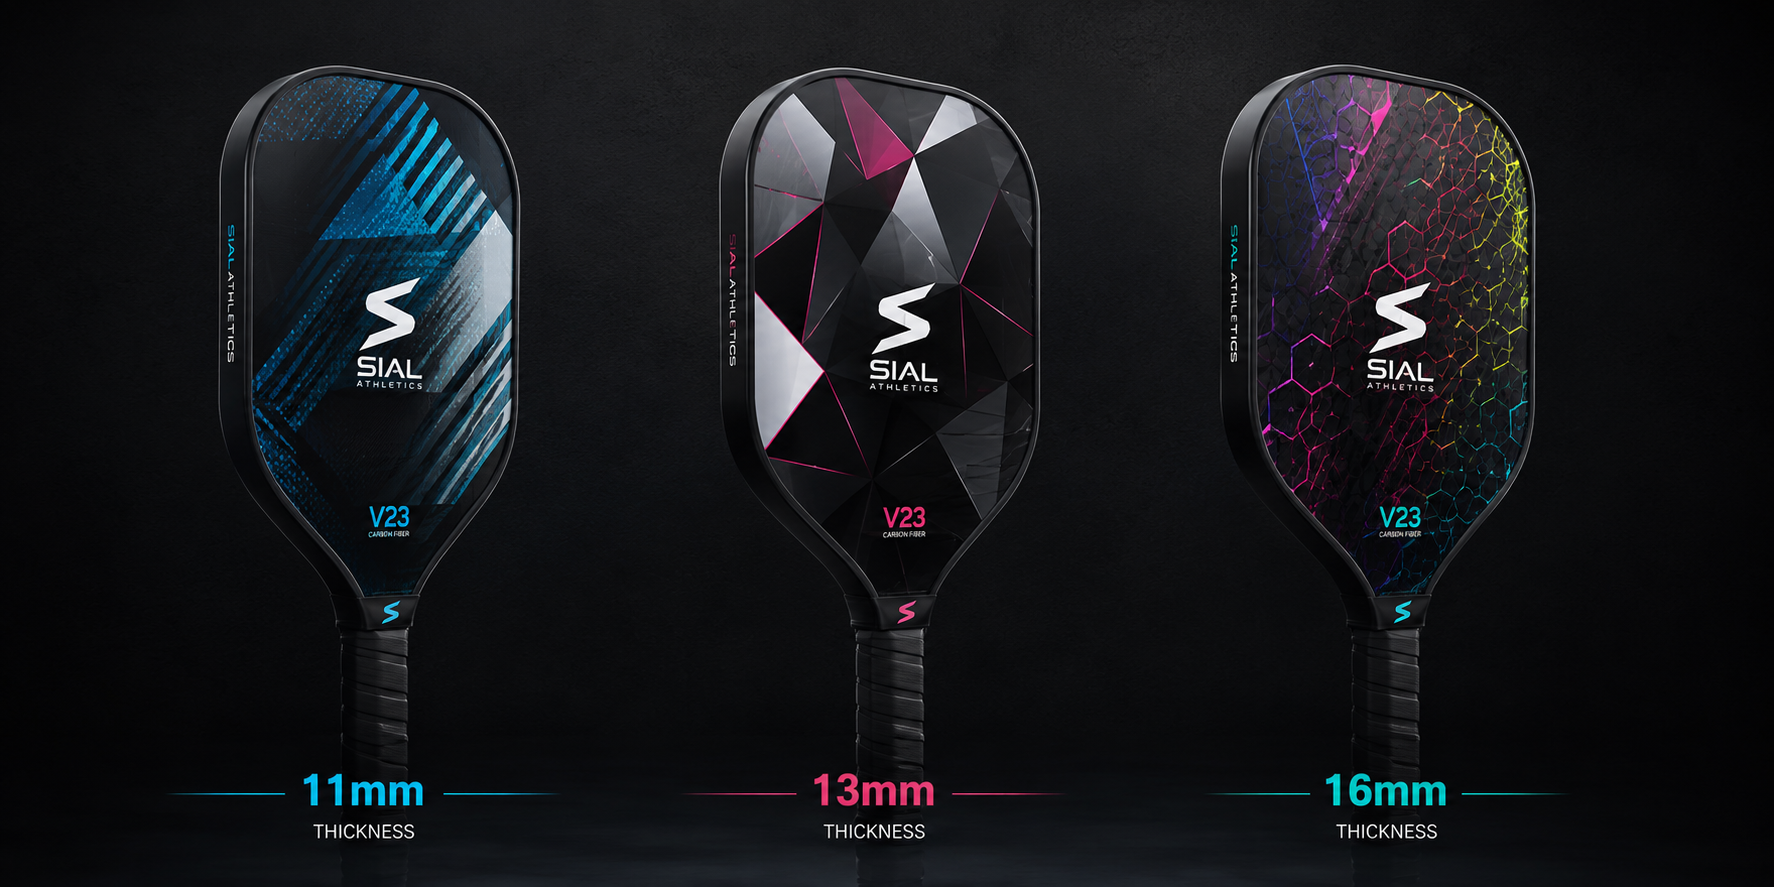
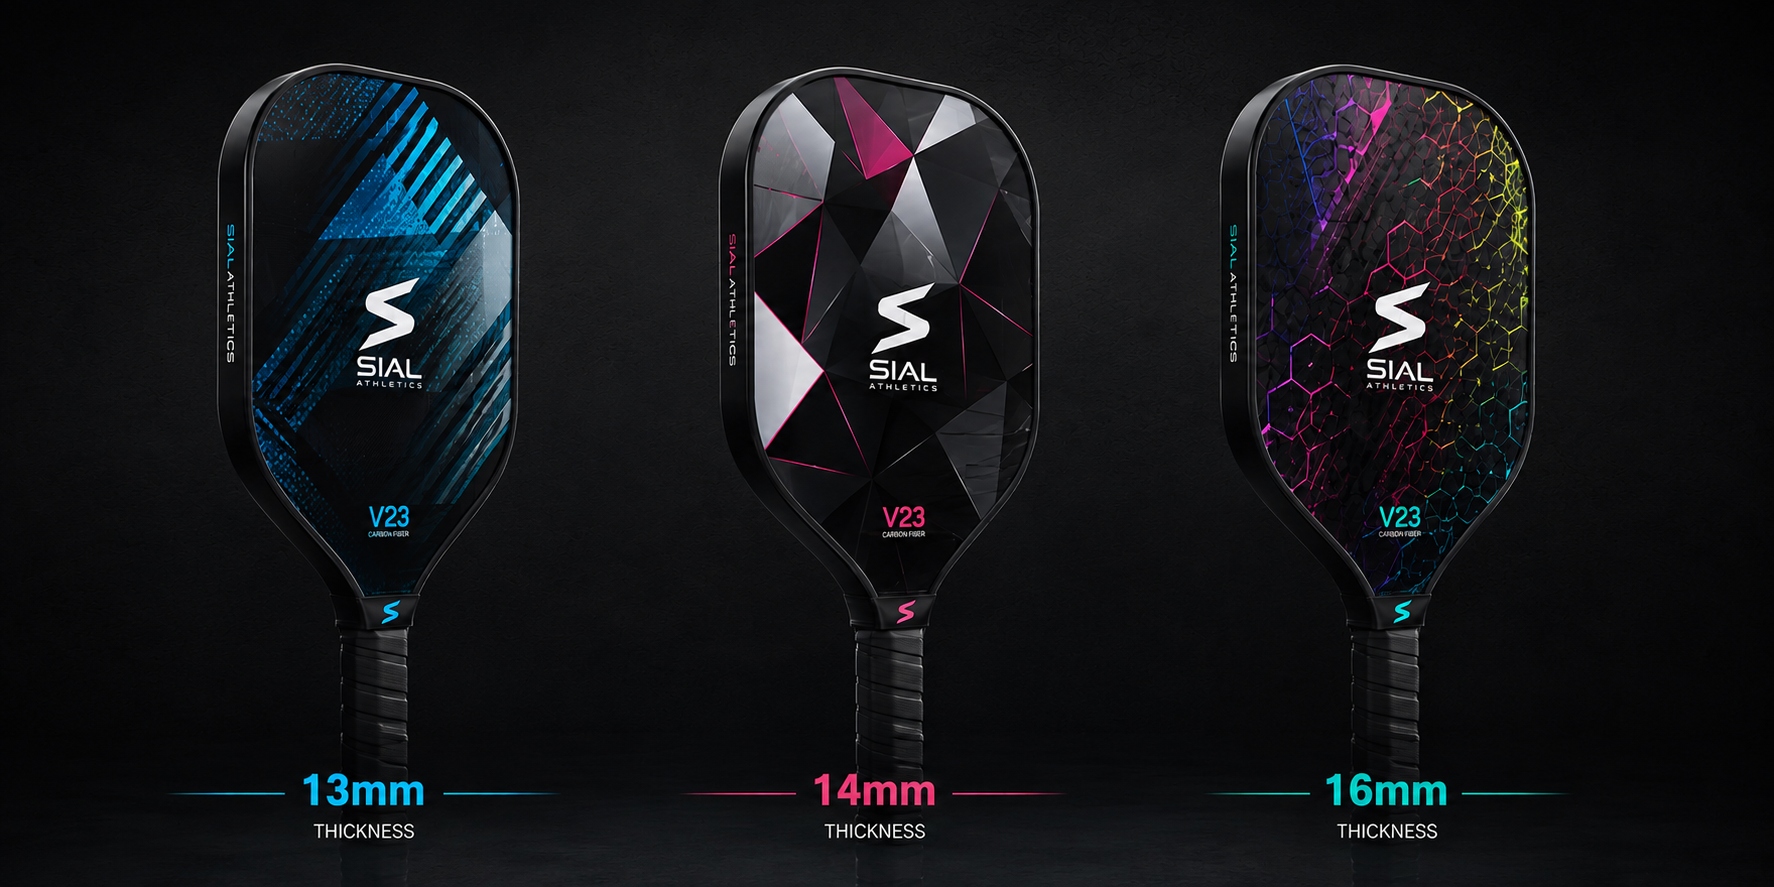
Align FAQ and blog with the trimmed catalogue options
Updated thickness artwork now reads 13/14/16mm, matching the catalogue,
the FAQ and the post title, so the earlier 11mm mismatch is resolved.

Weight and balance no longer read as things a buyer picks. The FAQ and
both padel posts now describe them as outcomes of the shape and core,
still landing in the usual 350-380g and 260-275mm ranges. The
descriptive mentions in the beginner guide and the padel-vs-pickleball
comparison stay, since those describe the equipment generally rather
than what we offer.

Texture wording follows the corrected position too: 3D relief is molded
and permanent, sand is a particle finish that smooths with play, and the
option lists drop 3D decals to match the catalogue.

Pickleball core is stated in the section intro instead of rendering as a
one-option chip group.

diff --git a/sialathletics/data/blog.ts b/sialathletics/data/blog.ts
@@ -231,19 +231,18 @@ export const posts: BlogPost[] = [
       { type: 'h2', text: 'Surface texture sets spin' },
       {
         type: 'p',
-        text: 'Texture is molded directly into the frame rather than sprayed on as a coating, so it does not wear off with use. Options include 3D grain, 3D hexagon mold, sand grit, and 3D decals.',
+        text: 'There are two ways to get grip: 3D relief molded into the frame, which cannot wear away, and a sand particle finish, which bites harder when new but smooths with play. Options are smooth, sand grit, 3D grain, 3D hexagon, or a hybrid that combines sand over a molded relief so performance fades gradually instead of falling away.',
       },
 
-      { type: 'h2', text: 'Weight, balance and finishing' },
+      { type: 'h2', text: 'The full spec sheet' },
       {
         type: 'table',
         rows: [
-          ['Weight', '350-380g'],
-          ['Balance', '260-275mm (low, mid, or high)'],
           ['Frame shape', 'Round, teardrop, diamond, hybrid, or a custom mold'],
-          ['Face material', '3K / 12K / 18K / 24K carbon, fiberglass-carbon hybrid, Kevlar-carbon blend'],
+          ['Face material', '3K / 12K / 18K / 24K carbon, silver carbon, fiberglass-carbon hybrid, Kevlar-carbon blend'],
           ['Core', 'Black high-density EVA, soft EVA 13-15°, memory high-rebound EVA'],
-          ['Texture', '3D grain, 3D hexagon, sand grit, 3D decals'],
+          ['Texture', 'Smooth, sand grit, 3D grain, 3D hexagon, or hybrid sand and 3D'],
+          ['Weight and balance', 'Not selected separately — they result from the shape and core, typically 350-380g and 260-275mm'],
         ],
       },
       {
@@ -468,10 +467,14 @@ export const posts: BlogPost[] = [
         text: 'For a first product line, teardrop is usually the right starting point. It is the shape most players can use, which makes it the safest single SKU if you are only launching one. Round is the natural second addition if you sell into clubs and academies, where beginners and improvers dominate. Diamond is the one to add last — it sells to a narrower, more advanced audience, and it is the shape most likely to sit on a shelf if your customer base is not there yet.',
       },
 
-      { type: 'h2', text: 'Weight and balance' },
+      { type: 'h2', text: 'Weight and balance follow from the build' },
       {
         type: 'p',
-        text: 'Weight and balance are specified separately from shape, and they can shift the character within a shape. Our range is 350-380g with a balance point from 260-275mm. A teardrop specified at 350g with a low balance will play more like a control racket than a heavy round one will. If you are trying to hit a particular feel, these two numbers are the fine adjustment.',
+        text: 'Weight and balance are not specified off a list. They are the result of the shape, the carbon grade and the core you choose, and they land in the usual 350-380g range with a balance point around 260-275mm. A round racket in a soft core naturally sits lower and lighter than a diamond in high-density EVA — the shape does that, not a number you tick.',
+      },
+      {
+        type: 'p',
+        text: 'If you have a target feel rather than a target figure, describe the player and we will tell you which combination gets closest. Chasing an exact gram count usually means compromising something that matters more.',
       },
 
       { type: 'h2', text: 'When you need a custom mold' },
@@ -559,7 +562,7 @@ export const posts: BlogPost[] = [
       'Core thickness is the biggest single influence on how a paddle feels. Thinner is faster, thicker is more controlled.',
     hero: {
       src: '/images/blog/pickleball-paddle-thickness.png',
-      alt: 'Three SIAL Athletics pickleball paddles shown side by side labelled 11mm, 13mm and 16mm thickness',
+      alt: 'Three SIAL Athletics pickleball paddles shown side by side labelled 13mm, 14mm and 16mm thickness',
     },
     blocks: [
       {

diff --git a/sialathletics/app/catalogue/page.tsx b/sialathletics/app/catalogue/page.tsx
@@ -118,10 +118,9 @@ const pickleballOptions: { title: string; items: string[] }[] = [
     title: 'Face Materials',
     items: ['Carbon Fiber (T300 / T700)', 'Raw T700 Carbon Fiber', '3K Carbon Fiber', 'Fiberglass', 'Kevlar'],
   },
-  {
-    title: 'Core Options',
-    items: ['Polypropylene (PP) Honeycomb'],
-  },
+  // Core is not a chip group: every paddle uses a polypropylene honeycomb
+  // core, so it is stated in the section intro rather than offered as a
+  // one-option choice.
   {
     title: 'Thickness Options',
     items: ['13 mm', '14 mm', '16 mm'],
@@ -301,8 +300,9 @@ export default function CataloguePage() {
               Pickleball paddles.
             </h2>
             <p style={{ fontFamily: 'var(--hp-body)', fontSize: '0.95rem', color: 'var(--hp-ink-70)', lineHeight: 1.7 }}>
-              Three builds — control, balanced, and power. Every paddle is fully customizable:
-              face, core, weight, grip, and branding.
+              Three builds — control, balanced, and power. Every paddle is built on a
+              polypropylene honeycomb core, with the face, thickness, edge, grip, finish and
+              branding specified to your requirements.
             </p>
           </div>
 

diff --git a/sialathletics/data/faq.ts b/sialathletics/data/faq.ts
@@ -41,7 +41,7 @@ export const faqCategories: FaqCategory[] = [
     items: [
       {
         q: 'What can be customized on a padel racket?',
-        a: 'Frame shape (teardrop, round, or diamond), carbon fiber grade (3K, 12K, 18K, or 24K, plus fiberglass-carbon hybrid and Kevlar-carbon blends), EVA core (black high-density, soft 13–15° hardness, or memory high-rebound), surface texture (3D grain or hexagon mold, sand grit, 3D decals), weight within the 350–380g range, and balance from 260–275mm — alongside full graphics, colorways, and grip options.',
+        a: 'Frame shape (teardrop, round, or diamond), carbon fiber grade (3K, 12K, 18K, or 24K, plus fiberglass-carbon hybrid and Kevlar-carbon blends), EVA core (black high-density, soft 13–15° hardness, or memory high-rebound), and surface texture (smooth, sand grit, 3D grain or hexagon, or a hybrid of sand and 3D) — alongside full graphics, colorways, and grip options. Weight and balance are not picked from a list: they follow from the shape and core you choose, and land in the usual 350–380g range.',
       },
       {
         q: 'What can be customized on a pickleball paddle?',
